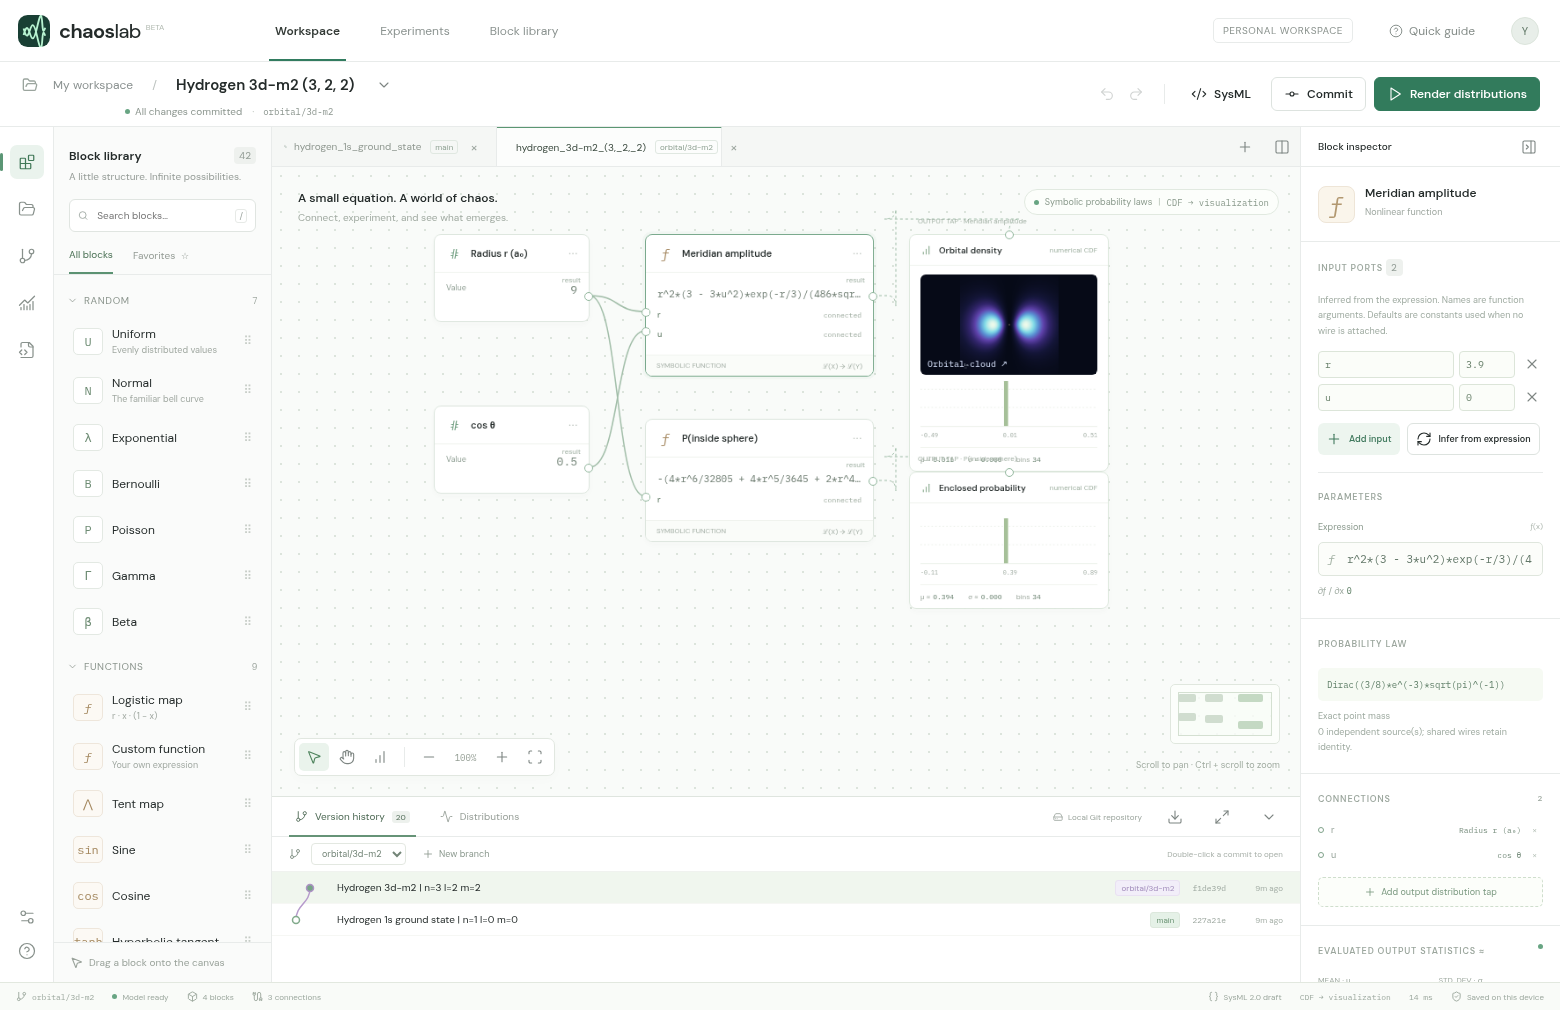
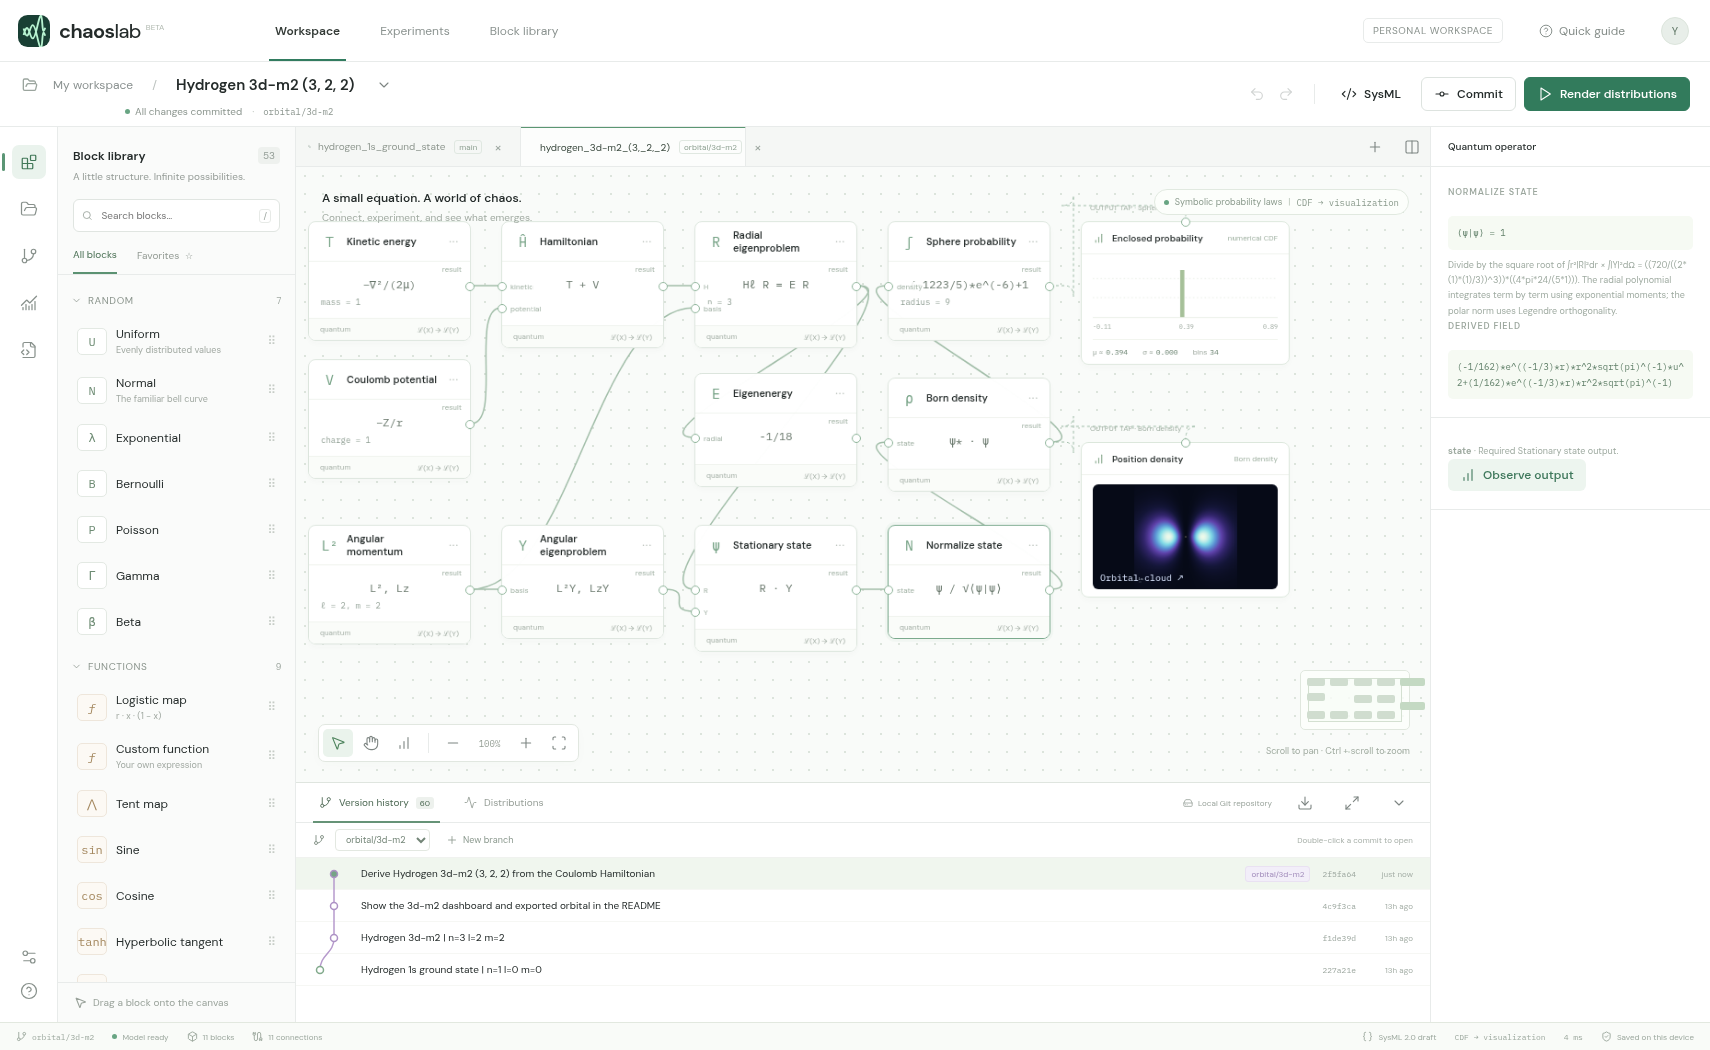
Show the derived state and operator graph for orbital/3d-m2

diff --git a/README.md b/README.md
@@ -4,6 +4,8 @@ Open **Version history** in Chaos Lab to explore the 20 hydrogen designs in this
 
 ## Hydrogen 3d (n = 3, ℓ = 2, m = 2)
 
+The connected Hamiltonian and eigenstate solvers give $E=-1/18$ Hartree for this state.
+
 ![Chaos Lab dashboard with the 3d model, m = 2, open in version history](dashboard.png)
 
 Radial nodes: 0. Polar nodes: 0. Plot half-width: 18 Bohr radii.
@@ -22,7 +24,7 @@ cd hydrogen_wavefunction
 python studio.py
 ```
 
-On Windows you can use `py studio.py`. On Linux you can use `python3 studio.py`. The first launch downloads the pinned Chaos Lab browser build. Double-click a commit to open it in a tab. Open another and use **Split view** to compare them. **Orbital cloud ↗** opens the spatial plots. The launcher reads the Git objects from your clone, including origin branches. Run `git fetch origin` and restart the launcher to load new remote branches.
+On Windows you can use `py studio.py`. On Linux you can use `python3 studio.py`. The first launch downloads the pinned Chaos Lab browser build. Double-click a commit to open it in a tab. Open another and use **Split view** to compare them. **Orbital cloud ↗** opens the spatial plots. The launcher reads the Git objects from your clone, including origin branches. For an existing clone, update the checked-out branch with `git pull --ff-only`, fetch the other branches with `git fetch origin`, and restart the launcher. Double-click the latest commit for the design you want to explore.
 
 To compare states with the same radial law, open `orbital/2p-m0` and `orbital/2p-m1`. At the same radius their enclosed-probability probes agree. The first slice is dark on the equatorial plane, while the second is dark along the polar axis.
 
@@ -32,7 +34,17 @@ To compare states with the same radial law, open `orbital/2p-m0` and `orbital/2p
 
 Branch names encode `(n, ℓ, m)`. For example, `orbital/3d-m1` is `(3,2,1)`. Each snapshot includes the editable graph, its compiled symbolic representation, and its SysML text. Each excited-state branch also contains a reference cross-section.
 
-Coordinates are in Bohr radii. These are normalized fixed-proton, nonrelativistic spatial eigenstates in the complex spherical-harmonic basis. For a fixed m the azimuthal phase is exp(i m φ), so probability density is axially symmetric. The graph evaluates the real meridian amplitude at φ = 0 using radius r and u = cos θ. Its square is probability per unit volume. The sphere probe integrates the radial Born law. The field tap sweeps the same amplitude expression for the x–z slice and its projected detections. Detections are drawn for display from a numerical grid of the final density including the r² volume factor. Brightness and plotting windows are scaled per orbital.
+## How the graph derives this orbital
+
+1. **Kinetic energy** and **Coulomb potential** supply the relative-coordinate operators in atomic units. Their wires feed **Hamiltonian**, which constructs $H=-\nabla^2/(2\mu)-Z/r$. The default is a fixed proton, $Z=\mu=1$.
+2. **Angular momentum** selects the joint eigenvalues of $L^2$ and $L_z$. **Radial eigenproblem** uses that angular eigenvalue in the centrifugal term. Regularity at the origin, decay at infinity, and radial-series termination give the polynomial and energy. **Angular eigenproblem** constructs the polar polynomial by Rodrigues differentiation and includes the phase $e^{im\phi}$.
+3. **Stationary state** multiplies the separated basis functions. **Normalize state** computes their norm with the spherical volume measure. **Born density** takes the squared modulus of the normalized state. **Sphere probability** integrates that density to the probe radius.
+4. Select a block to inspect its equation and derivation. Change **Nuclear charge** from 1 to 2. The energy becomes four times more negative and the orbital contracts by a factor of two. The plot rescales with the orbital, so use its Bohr-radius scale bar to see the change.
+
+The central slice evaluates the final density in the x–z plane. Projected detections sample the final density on a finite radial and angular grid with the spherical volume factor. Coordinates use Bohr radii and energy uses Hartree.
+
+The branch stores the operator graph in `model.json`, its derived fields and scalar laws in `model.symbolic.json`, and the block connections in `model.sysml`. With SymPy installed, run `python tools/verify_state.py` in a checkout of this branch to check the eigenvalue equations, normalization, radial reference solution and sphere integral.
+
 
 | n | ℓ | m | Design branch |
 |---|---|---|---|
